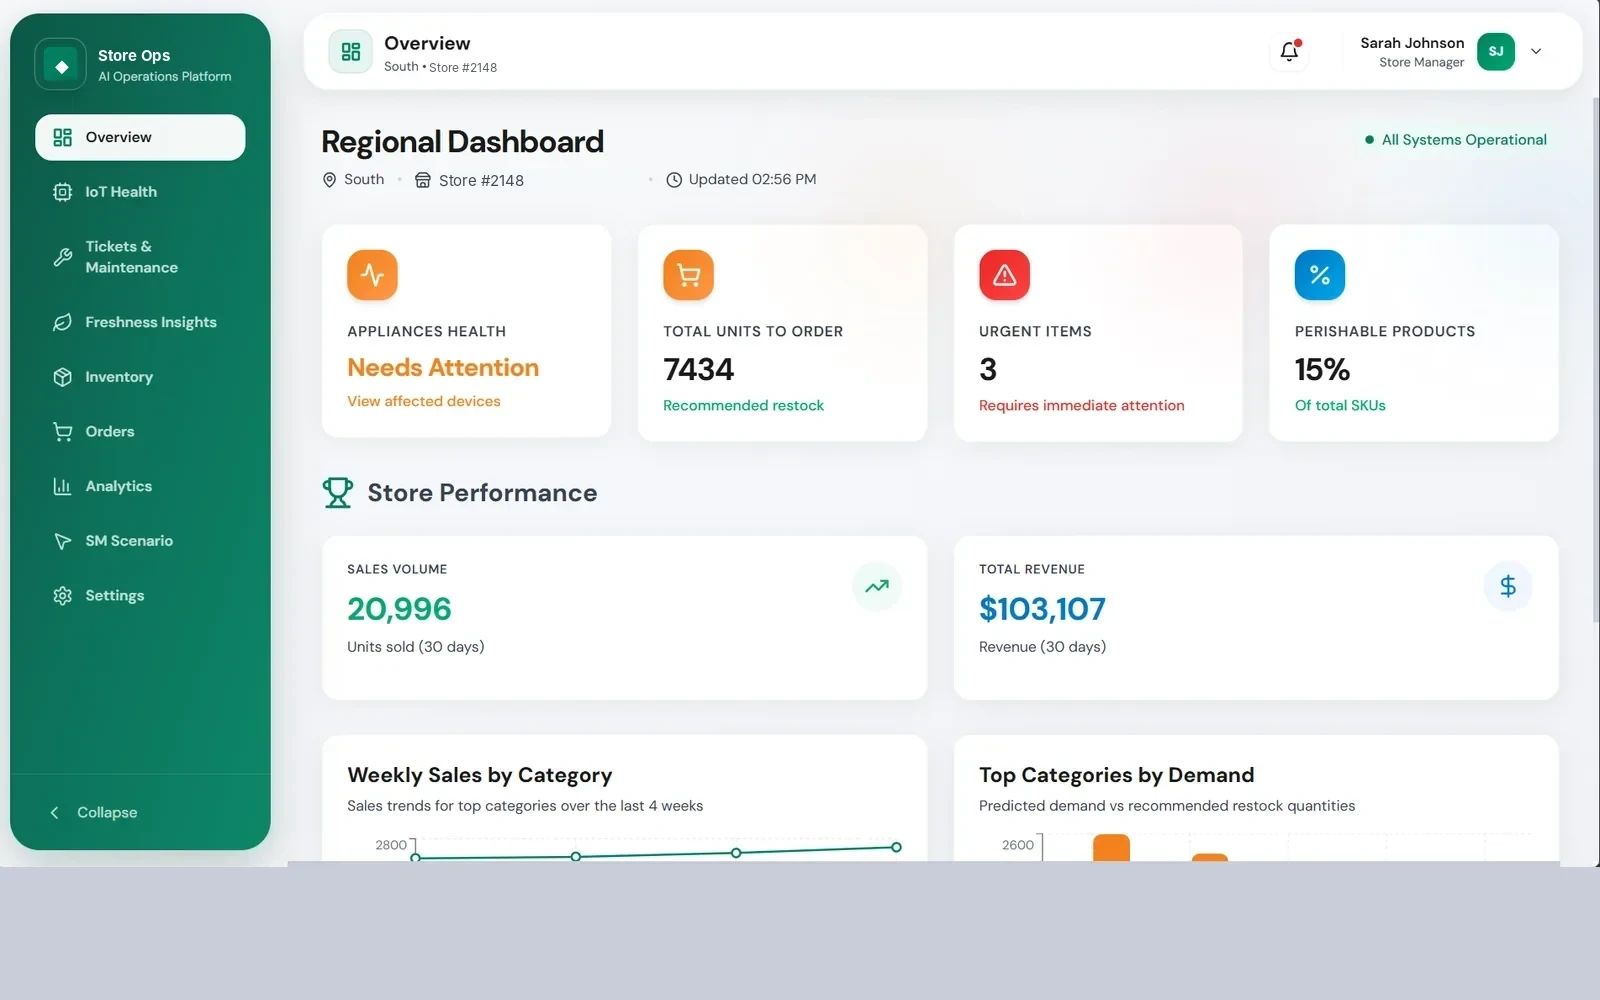
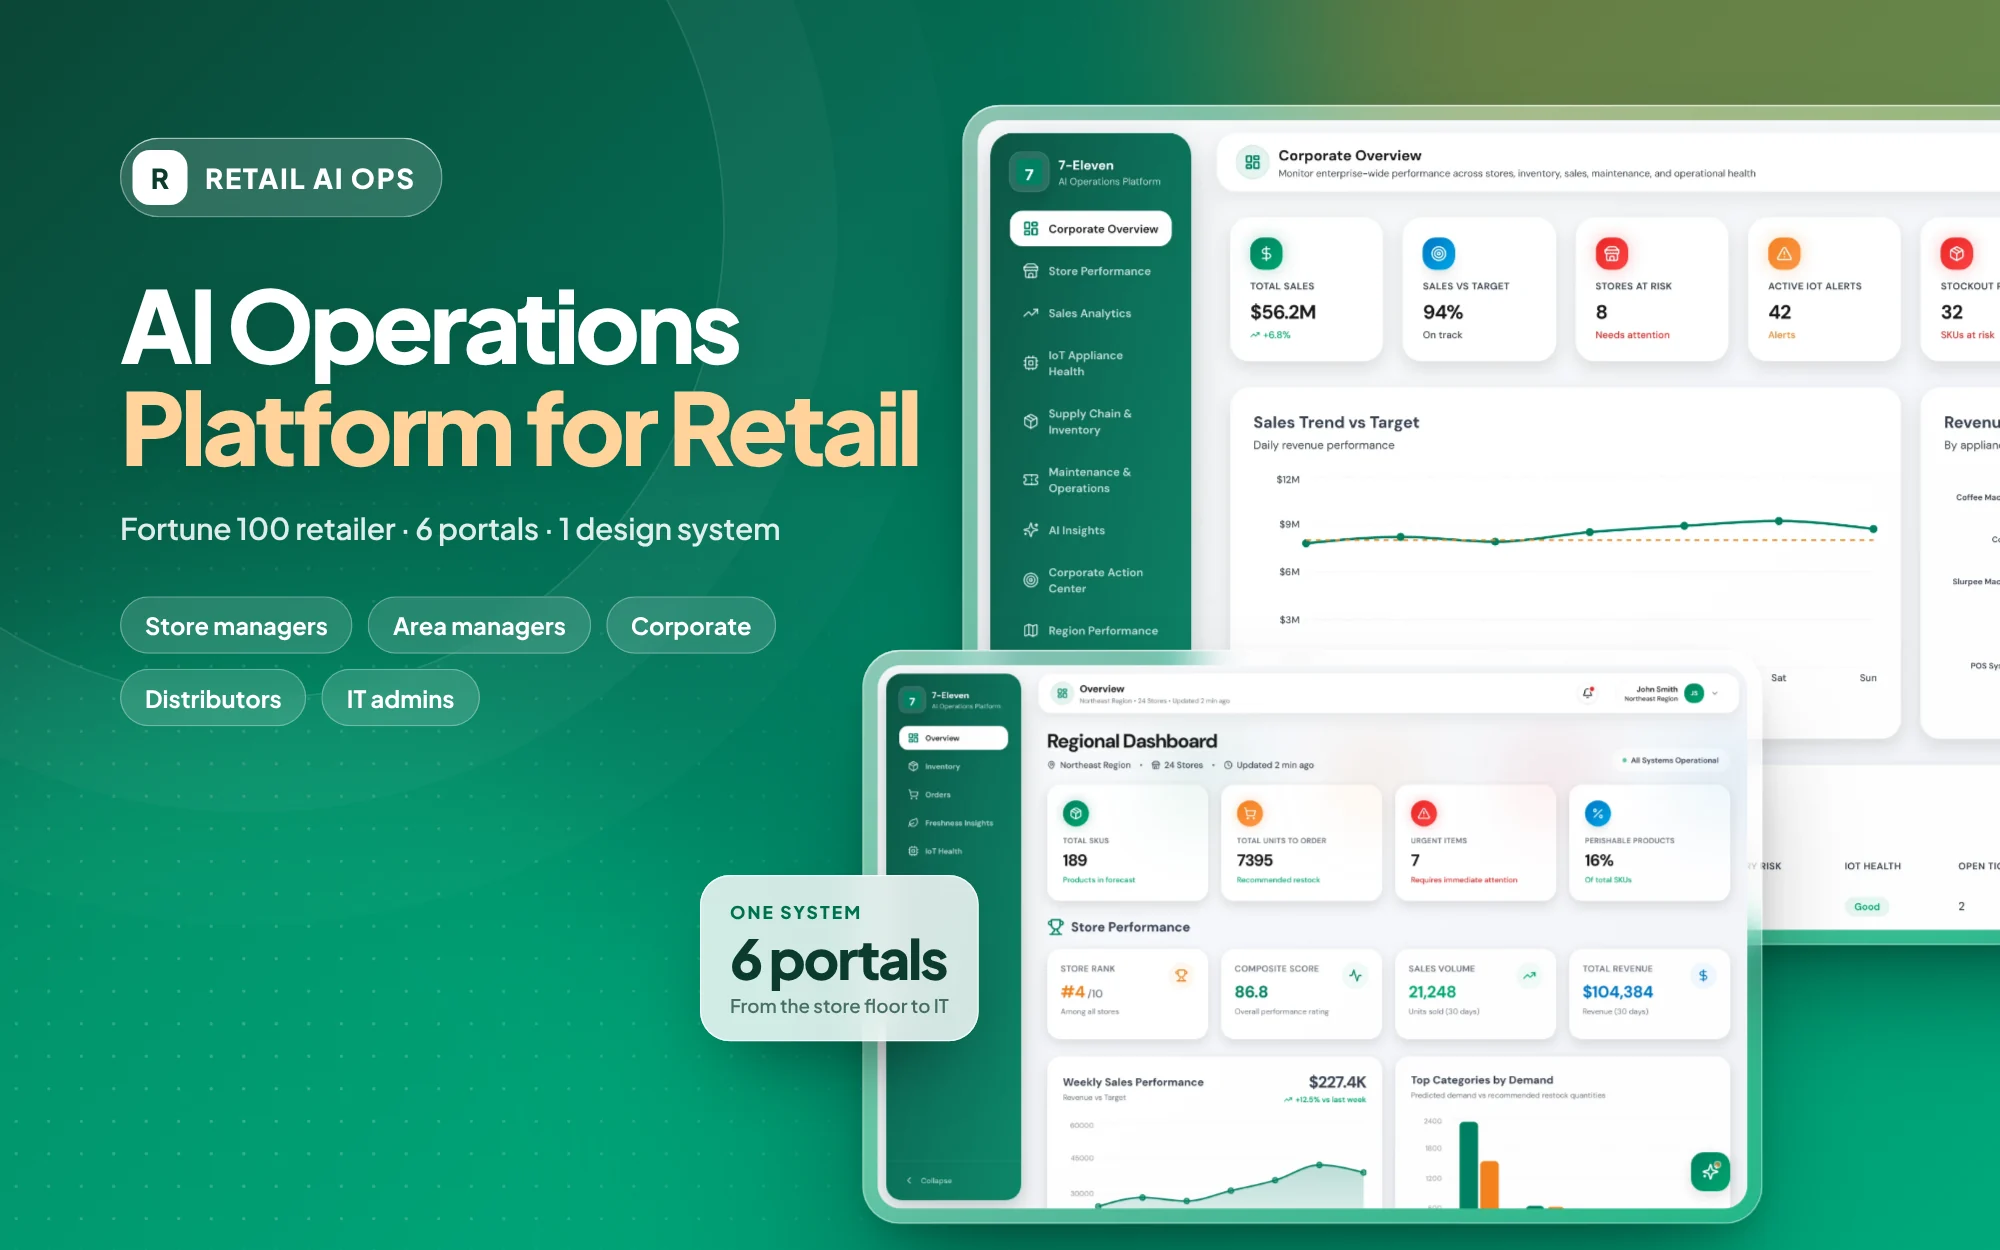
Designed project thumbnails in glass frames; retail headline states the platform
- New 16:10 thumbnails for VERRDICT, the retail platform and WorldKit in the
  same family as the GRC cover: bold title, audience chips, real screens in
  glass bezels and one floating fact
- Card frame drops the browser tab: the mint stage stays, the image sits in a
  frosted glass bezel that lifts and catches a sheen on hover
- Retail hero now says what the platform does: shows every retail role what to
  act on first; card copy and next-project cards updated to match

Claude-Session: https://claude.ai/code/session_01XsvKLdKLNZvsWgmXW4jUpW

diff --git a/components/Mockup.module.css b/components/Mockup.module.css
@@ -1,13 +1,13 @@
 /* One gradient, one frame, one ratio — for every card. */
 .stage {
   position: relative;
-  aspect-ratio: 4 / 3;
+  aspect-ratio: 16 / 11.5;
   border-radius: 28px;
   overflow: hidden;
   isolation: isolate;
   display: grid;
   place-items: center;
-  padding: 7%;
+  padding: 6% 7%;
   background: linear-gradient(150deg, #e9f6ef 0%, var(--mint) 38%, #bfe6d4 72%, #9fd9c1 100%);
   transition: box-shadow 0.5s var(--ease);
 }
@@ -49,66 +49,46 @@
   mask-image: radial-gradient(circle at 15% 85%, #000 0%, transparent 55%);
 }
 
-/* browser window */
-.window {
-  width: 100%;
-  border-radius: 14px;
-  overflow: hidden;
-  background: var(--white);
-  box-shadow: 0 0 0 1px rgba(5, 88, 68, 0.08), 0 2px 4px rgba(5, 88, 68, 0.06),
-    0 30px 60px -28px rgba(5, 60, 45, 0.55);
-  transition: transform 0.6s var(--ease-spring), box-shadow 0.6s var(--ease);
-}
-.bar {
+/* frosted glass bezel around the image */
+.glass {
   position: relative;
-  display: flex;
-  align-items: center;
-  gap: 6px;
-  height: 30px;
-  padding: 0 12px;
-  background: #f7f5f1;
-  border-bottom: 1px solid rgba(26, 20, 32, 0.07);
+  width: 100%;
+  padding: clamp(6px, 1.1vw, 12px);
+  border-radius: 24px;
+  background: linear-gradient(140deg, rgba(255, 255, 255, 0.72), rgba(255, 255, 255, 0.22));
+  backdrop-filter: blur(18px) saturate(150%);
+  -webkit-backdrop-filter: blur(18px) saturate(150%);
+  box-shadow:
+    inset 0 1px 0 rgba(255, 255, 255, 0.95),
+    inset 0 0 0 1px rgba(255, 255, 255, 0.55),
+    0 2px 4px rgba(5, 88, 68, 0.06),
+    0 34px 64px -30px rgba(5, 60, 45, 0.6);
+  transition: transform 0.7s var(--ease-spring), box-shadow 0.6s var(--ease);
 }
-.bar i {
-  width: 9px;
-  height: 9px;
-  border-radius: 50%;
-  background: #ddd6cb;
-}
-.bar i:first-child {
-  background: var(--ring);
-}
-.bar span {
-  position: absolute;
-  left: 50%;
-  translate: -50% 0;
-  max-width: 60%;
-  padding: 3px 12px;
-  border-radius: var(--r-pill);
-  background: var(--white);
-  font-size: 11px;
-  font-weight: 700;
-  color: var(--ink);
-  white-space: nowrap;
+.shot {
+  position: relative;
   overflow: hidden;
-  text-overflow: ellipsis;
+  border-radius: 16px;
+  box-shadow: 0 1px 2px rgba(5, 60, 45, 0.25);
 }
-.window img {
+.shot img {
   display: block;
   width: 100%;
   aspect-ratio: 16 / 10;
   object-fit: cover;
   object-position: top center;
+  transition: transform 1.2s var(--ease);
 }
-.lg .bar {
-  height: 38px;
+/* a soft band of light that crosses the glass on hover */
+.sheen {
+  position: absolute;
+  inset: -20% -60%;
+  background: linear-gradient(105deg, transparent 38%, rgba(255, 255, 255, 0.42) 50%, transparent 62%);
+  translate: -70% 0;
+  pointer-events: none;
 }
-.lg .bar i {
-  width: 11px;
-  height: 11px;
-}
-.lg .bar span {
-  font-size: 13px;
+.lg .glass {
+  border-radius: 28px;
 }
 
 /* NDA chip */
@@ -139,9 +119,28 @@
 }
 
 /* hover — parent link gets :global(.mockup-hover) */
-:global(.mockup-hover):hover .window {
-  transform: translateY(-6px) scale(1.015);
-  box-shadow: 0 0 0 1px rgba(5, 88, 68, 0.08), 0 40px 70px -28px rgba(5, 60, 45, 0.6);
+:global(.mockup-hover):hover .glass {
+  transform: translateY(-8px) scale(1.012);
+  box-shadow:
+    inset 0 1px 0 rgba(255, 255, 255, 0.95),
+    inset 0 0 0 1px rgba(255, 255, 255, 0.6),
+    0 48px 80px -32px rgba(5, 60, 45, 0.65);
+}
+:global(.mockup-hover):hover .shot img {
+  transform: scale(1.03);
+}
+:global(.mockup-hover):hover .sheen {
+  translate: 70% 0;
+  transition: translate 1.1s var(--ease);
+}
+@media (prefers-reduced-motion: reduce) {
+  .glass,
+  .shot img {
+    transition: none;
+  }
+  .sheen {
+    display: none;
+  }
 }
 
 @media (max-width: 600px) {
@@ -152,15 +151,5 @@
   .lg {
     aspect-ratio: 4 / 3;
     padding: 6%;
-  }
-  .bar {
-    height: 22px;
-  }
-  .bar i {
-    width: 7px;
-    height: 7px;
-  }
-  .bar span {
-    display: none;
   }
 }

diff --git a/app/work/(story)/retail-ops/page.tsx b/app/work/(story)/retail-ops/page.tsx
@@ -7,7 +7,7 @@ import Screen from '@/components/story/Screen';
 import s from '@/components/story/story.module.css';
 
 export const metadata = {
-  title: 'Retail AI operations · One design system, six different jobs',
+  title: 'Retail AI operations · Showing every role what to act on first',
   description:
     'An AI operations platform for a Fortune 100 retailer: six portals, from the store floor to corporate, distribution and IT, built on one shared design system.',
   robots: { index: false, follow: false },
@@ -262,7 +262,7 @@ export default function RetailOps() {
       {/* ===== Hero ===== */}
       <header className={s.hero}>
         <p className={s.heroKick}>AI operations platform · Fortune 100 retail · Six personas</p>
-        <h1 className={s.h1}>One design system, six different jobs</h1>
+        <h1 className={s.h1}>Designing an AI operations platform that shows every retail role what to act on first</h1>
         <ul className={s.heroMeta}>
           <li>UX designer · WorldLink</li>
           <li>6 personas · 6 portals</li>
@@ -272,7 +272,7 @@ export default function RetailOps() {
         <div className={s.heroShot}>
           <Image
             src={`${IMG}/hero.webp`}
-            alt="Corporate overview: total sales, sales vs target, stores at risk, IoT alerts, stockout risks and open tickets"
+            alt="Corporate overview of the AI operations platform: total sales, sales vs target, stores at risk, IoT alerts, stockout risks and open tickets"
             width={2400}
             height={1500}
             sizes="(max-width: 1600px) 94vw, 1480px"
@@ -432,7 +432,7 @@ export default function RetailOps() {
           {/* ===== Design system ===== */}
           <section className={s.sec} id="system">
             <p className={s.kick}>04 · Design system</p>
-            <h2 className={s.h2}>One library under six portals</h2>
+            <h2 className={s.h2}>One design system, six different jobs</h2>
             <p>
               Built on the client’s brand tokens. Green holds the shell together; orange and red are reserved for things
               that need attention, and every status also says its word.
@@ -630,11 +630,11 @@ export default function RetailOps() {
             <Link href="/work/network-governance/" className={s.nextCard}>
               <span className={`${s.nextImg} ${s.nextBlue}`}>
                 {/* eslint-disable-next-line @next/next/no-img-element */}
-                <img src="/work/network-governance/hero-overview.webp" alt="" />
+                <img src="/work/network-governance/cover.webp" alt="" />
               </span>
               <span className={s.nextBody}>
                 <em>Fortune 100 bank · AI network governance</em>
-                <b>Designing trust into network governance</b>
+                <b>Designing trust into network governance, so every decision can be explained</b>
                 <span>Twelve weeks, eight users, two rounds of testing and an assistant that asks before it acts.</span>
                 <i>View case study →</i>
               </span>

diff --git a/content/work.ts b/content/work.ts
@@ -65,12 +65,12 @@ export const caseStudies: CaseStudy[] = [
     slug: 'network-governance',
     title: 'Network Governance Platform',
     summary:
-      'A UX audit and redesign that reorganized a governance tool around three verbs: Monitor, Resolve, Prove.',
-    client: 'Fortune 100 financial services · POC',
+      'An AI-powered network governance platform for a Fortune 100 bank, designed so every decision can be explained. 12 weeks, 8 users, 2 rounds of testing.',
+    client: 'Fortune 100 bank · AI network governance',
     year: '2026',
-    role: 'UX Designer & front-end prototyper',
-    team: 'TODO',
-    timeline: 'TODO',
+    role: 'UX designer, end to end',
+    team: 'Product lead, engineering, sales and client experts',
+    timeline: '12 weeks',
     tools: ['Figma', 'Client design system', 'Claude Code', 'React'],
     tags: ['UX audit', 'Data-heavy UI', 'Prototyping'],
     cover: 'network',
@@ -84,16 +84,16 @@ export const caseStudies: CaseStudy[] = [
     slug: 'retail-ops',
     title: 'AI Operations Platform for Retail',
     summary:
-      'Six personas, one ecosystem — from the store floor to corporate and IT — designed to feel like one product.',
+      'An AI operations platform that shows every retail role, from the store floor to corporate and IT, what to act on first. Six portals on one design system.',
     client: 'Fortune 100 retail · AI operations',
     year: '2026',
     role: 'UX Designer',
-    team: 'TODO',
+    team: 'WorldLink product, engineering and client stakeholders',
     timeline: 'TODO',
-    tools: ['Figma', 'Figma MCP', 'HTML prototypes'],
+    tools: ['Figma', 'Figma Make', 'Figma MCP', 'HTML prototypes'],
     tags: ['Multi-persona', 'AI dashboards', 'Retail ops'],
     cover: 'retail',
-    hook: ['Six roles.', 'One operating picture.'],
+    hook: ['Six roles.', 'One thing to act on first.'],
     image: '/work/retail-ops/cover.webp',
     tone: 'paper',
     industry: 'Retail operations · AI',

diff --git a/components/Mockup.tsx b/components/Mockup.tsx
@@ -1,18 +1,18 @@
 import s from './Mockup.module.css';
 
 // THE one presentation format for every project image on the site:
-// brand gradient stage → browser window → your 16:10 image, always fully visible.
-// Image spec: 1600 × 1000 px (16:10), WebP or PNG, in /public/work/<slug>/cover.webp
+// the mint brand stage → a frosted glass bezel → your 16:10 image, always fully visible.
+// Image spec: 1600 × 1000 px or larger (16:10), WebP or PNG, in /public/work/<slug>/cover.webp
 export default function Mockup({
   src,
   alt = '',
-  label,
   locked = false,
   size = 'md',
   priority = false,
 }: {
   src: string;
   alt?: string;
+  /** kept for older call sites; the glass frame has no title bar */
   label?: string;
   locked?: boolean;
   size?: 'md' | 'lg';
@@ -23,15 +23,12 @@ export default function Mockup({
       <span className={s.blobA} aria-hidden />
       <span className={s.blobB} aria-hidden />
       <span className={s.dots} aria-hidden />
-      <div className={s.window}>
-        <div className={s.bar} aria-hidden>
-          <i />
-          <i />
-          <i />
-          {label && <span>{label}</span>}
+      <div className={s.glass}>
+        <div className={s.shot}>
+          {/* eslint-disable-next-line @next/next/no-img-element */}
+          <img src={src} alt={alt} loading={priority ? 'eager' : 'lazy'} />
+          <span className={s.sheen} aria-hidden />
         </div>
-        {/* eslint-disable-next-line @next/next/no-img-element */}
-        <img src={src} alt={alt} loading={priority ? 'eager' : 'lazy'} />
       </div>
       {locked && (
         <span className={s.lock}>

diff --git a/app/work/(story)/network-governance/page.tsx b/app/work/(story)/network-governance/page.tsx
@@ -1140,8 +1140,8 @@ export default function Verrdict() {
               </span>
               <span className={s.nextBody}>
                 <em>Fortune 100 retail · AI operations</em>
-                <b>AI Operations Platform for Retail</b>
-                <span>Six personas, one ecosystem, designed to feel like one product.</span>
+                <b>Designing an AI operations platform that shows every retail role what to act on first</b>
+                <span>Six portals, from the store floor to corporate and IT, on one design system.</span>
                 <i>View case study →</i>
               </span>
             </Link>
